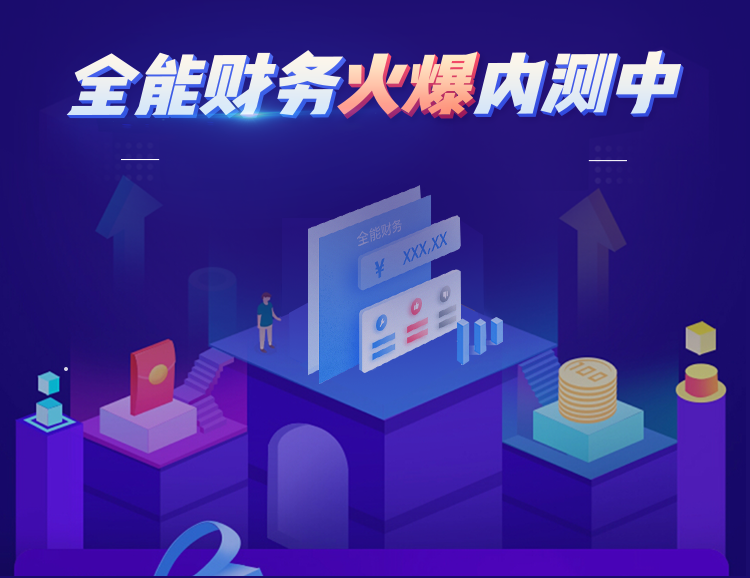
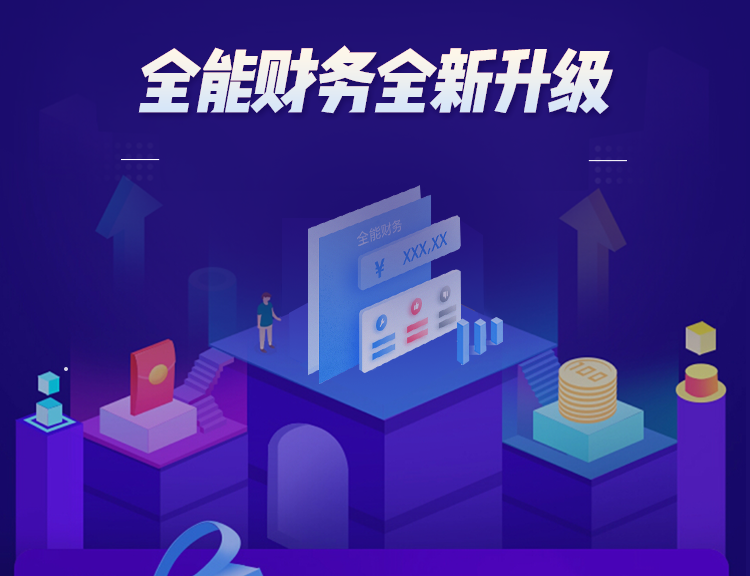
5.13

diff --git a/src/components/Bind.vue b/src/components/Bind.vue
@@ -17,7 +17,7 @@
             <div class="act-panel panel-6">
             </div>
             <div class="act-panel panel-7 text-center">
-              <div class="corner">内测版福利</div>
+              <div class="corner">升级版福利</div>
               <p class="intro">￥<span class="font-bold">666元</span>/年<span class="font-weak">（原价:￥<span class="font-through">999</span>）</span> <span class="font-red">邀请2人返全额现金</span></p>
               <input class="wangwang-input text-center" type="text" v-model="targetSellerNick" placeholder="请输入您的旺旺昵称">
               <p class="topic">
@@ -25,10 +25,9 @@
                 <span class="name">{{nickName}}</span>
                 的邀请
               </p>
-              <div class="btn-bind" @click="bindInvite()">抢内测优惠（限量）</div>
+              <div class="btn-bind" @click="bindInvite()">抢优惠福利（限量）</div>
             </div>
             <img class="act-panel panel-8" src="../assets/images/inviteBind/panel8.png">
-            </img>
         </div>
         <div id="scroll-bottom" class="pos-f"></div>
     </div>
@@ -137,7 +136,7 @@ export default {
                       desc: '这款软件精准计算网店利润，数据报表可视化，自动同步直通车/钻展数据，更可一键批量操作成本、库存！快来一起体验！',
                       img_width: 640,
                       img_height: 640,
-                      link: 'http://www.quannengcaiwu.com/mobile/bind?inviteNo='+_this.inviteNo+"&nick=" + encodeURI(_this.nick), // 分享链接，该链接域名或路径必须与当前页面对应的公众号JS安全域名一致
+                      link: 'http://caiwu.cuxiao.quannengzhanggui.net/mobile/bind?inviteNo='+_this.inviteNo+"&nick=" + encodeURI(_this.nick), // 分享链接，该链接域名或路径必须与当前页面对应的公众号JS安全域名一致
                       imgUrl: 'https://wxllb.image.alimmdn.com/qnzg_material/bab4a7d0-b39a-4ce7-8ffe-1bcad634c024', // 分享图标
                       success: function (e) {
                       },
@@ -149,7 +148,7 @@ export default {
                       title: '网店财务管理，首选全能财务，只需一个财务1/6的月薪，为您服务一年！', // 分享标题
                       img_width: 640,
                       img_height: 640,
-                      link: 'http://www.quannengcaiwu.com/mobile/bind?inviteNo='+_this.inviteNo+"&nick=" + encodeURI(_this.nick), // 分享链接，该链接域名或路径必须与当前页面对应的公众号JS安全域名一致
+                      link: 'http://caiwu.cuxiao.quannengzhanggui.net/mobile/bind?inviteNo='+_this.inviteNo+"&nick=" + encodeURI(_this.nick), // 分享链接，该链接域名或路径必须与当前页面对应的公众号JS安全域名一致
                       imgUrl: 'https://wxllb.image.alimmdn.com/qnzg_material/bab4a7d0-b39a-4ce7-8ffe-1bcad634c024', // 分享图标
                       success: function (e) {
                       },

diff --git a/src/components/Invite.vue b/src/components/Invite.vue
@@ -32,7 +32,7 @@
                         <span>￥</span>666<span>/全年</span>
                     </p>
                     <p class="price-original">原价：999元</p>
-                    <p class="remake">内测期间 不限订单量</p>
+                    <p class="remake">不限订单量</p>
                 </div>
             </div>
             <div class="act-panel panel-2 pos-r">
@@ -144,7 +144,7 @@ export default {
                       desc: '这款软件精准计算网店利润，数据报表可视化，自动同步直通车/钻展数据，更可一键批量操作成本、库存！快来一起体验！',
                       img_width: 640,
                       img_height: 640,
-                      link: 'http://www.quannengcaiwu.com/mobile/bind?inviteNo='+_this.inviteNo+"&nick=" + encodeURI(_this.nick), // 分享链接，该链接域名或路径必须与当前页面对应的公众号JS安全域名一致
+                      link: 'http://caiwu.cuxiao.quannengzhanggui.net/mobile/bind?inviteNo='+_this.inviteNo+"&nick=" + encodeURI(_this.nick), // 分享链接，该链接域名或路径必须与当前页面对应的公众号JS安全域名一致
                       imgUrl: 'https://wxllb.image.alimmdn.com/qnzg_material/bab4a7d0-b39a-4ce7-8ffe-1bcad634c024', // 分享图标
                       success: function (e) {
                         _this.toogleShareGuide(false);
@@ -157,7 +157,7 @@ export default {
                       title: '网店财务管理，首选全能财务，只需一个财务1/6的月薪，为您服务一年！', // 分享标题
                       img_width: 640,
                       img_height: 640,
-                      link: 'http://www.quannengcaiwu.com/mobile/bind?inviteNo='+_this.inviteNo+"&nick=" + encodeURI(_this.nick), // 分享链接，该链接域名或路径必须与当前页面对应的公众号JS安全域名一致
+                      link: 'http://caiwu.cuxiao.quannengzhanggui.net/mobile/bind?inviteNo='+_this.inviteNo+"&nick=" + encodeURI(_this.nick), // 分享链接，该链接域名或路径必须与当前页面对应的公众号JS安全域名一致
                       imgUrl: 'https://wxllb.image.alimmdn.com/qnzg_material/bab4a7d0-b39a-4ce7-8ffe-1bcad634c024', // 分享图标
                       success: function (e) {
                         _this.toogleShareGuide(false);

diff --git a/src/components/Pure.vue b/src/components/Pure.vue
@@ -88,7 +88,7 @@ export default {
                       desc: '这款软件精准计算网店利润，数据报表可视化，自动同步直通车/钻展数据，更可一键批量操作成本、库存！快来一起体验！',
                       img_width: 640,
                       img_height: 640,
-                      link: 'http://www.quannengcaiwu.com/mobile/pure', // 分享链接，该链接域名或路径必须与当前页面对应的公众号JS安全域名一致
+                      link: 'http://caiwu.cuxiao.quannengzhanggui.net/mobile/pure', // 分享链接，该链接域名或路径必须与当前页面对应的公众号JS安全域名一致
                       imgUrl: 'https://wxllb.image.alimmdn.com/qnzg_material/bab4a7d0-b39a-4ce7-8ffe-1bcad634c024', // 分享图标
                       success: function (e) {
                       },
@@ -100,7 +100,7 @@ export default {
                       title: '网店财务管理，首选全能财务，只需一个财务1/6的月薪，为您服务一年！', // 分享标题
                       img_width: 640,
                       img_height: 640,
-                      link: 'http://www.quannengcaiwu.com/mobile/pure', // 分享链接，该链接域名或路径必须与当前页面对应的公众号JS安全域名一致
+                      link: 'http://caiwu.cuxiao.quannengzhanggui.net/mobile/pure', // 分享链接，该链接域名或路径必须与当前页面对应的公众号JS安全域名一致
                       imgUrl: 'https://wxllb.image.alimmdn.com/qnzg_material/bab4a7d0-b39a-4ce7-8ffe-1bcad634c024', // 分享图标
                       success: function (e) {
                       },

diff --git a/src/styles/view/_bind.scss b/src/styles/view/_bind.scss
@@ -57,8 +57,9 @@
             background-image: url("../assets/images/inviteBind/panel2.png");
         }
         &.panel-3 {
-            height: 5.18rem;
+            height: 5.17rem;
             margin-top: 0.2rem;
+            border: 0.01rem solid rgb(35, 13, 126);
             background-image: url("../assets/images/inviteBind/panel3.png");
         }
         &.panel-4 {
@@ -141,9 +142,9 @@
     #scroll-bottom {
         z-index: 1;
         bottom: 0.2rem;
-        left: 0.08;
-        width: 7.34rem;
-        height: 1.12rem;
+        left: 0.03rem;
+        width: 7.42rem;
+        height: 1.06rem;
         background: url("../assets/images/inviteBind/button.png");
         background-size: 100%;
     }

diff --git a/src/styles/view/_invite.scss b/src/styles/view/_invite.scss
@@ -80,7 +80,7 @@
     }
     .banner {
         width: 7.5rem;
-        height: 5.78rem;
+        height: 5.76rem;
         background: url("../assets/images/invite/banner.png");
         background-size: 100%;
         .topic {
